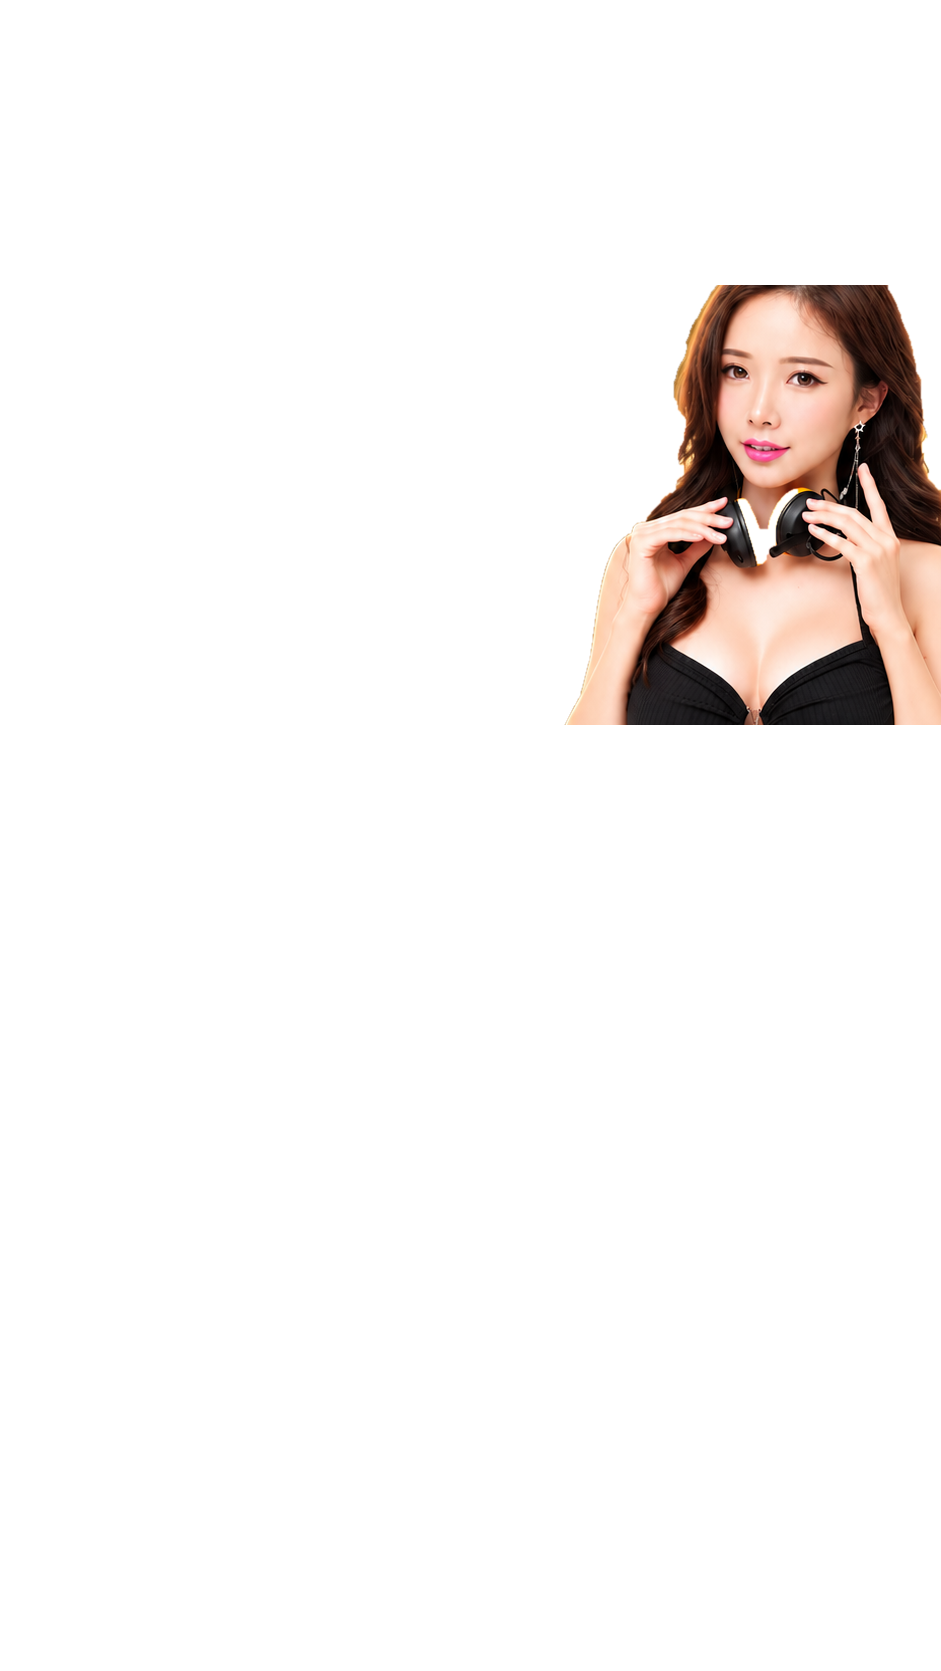
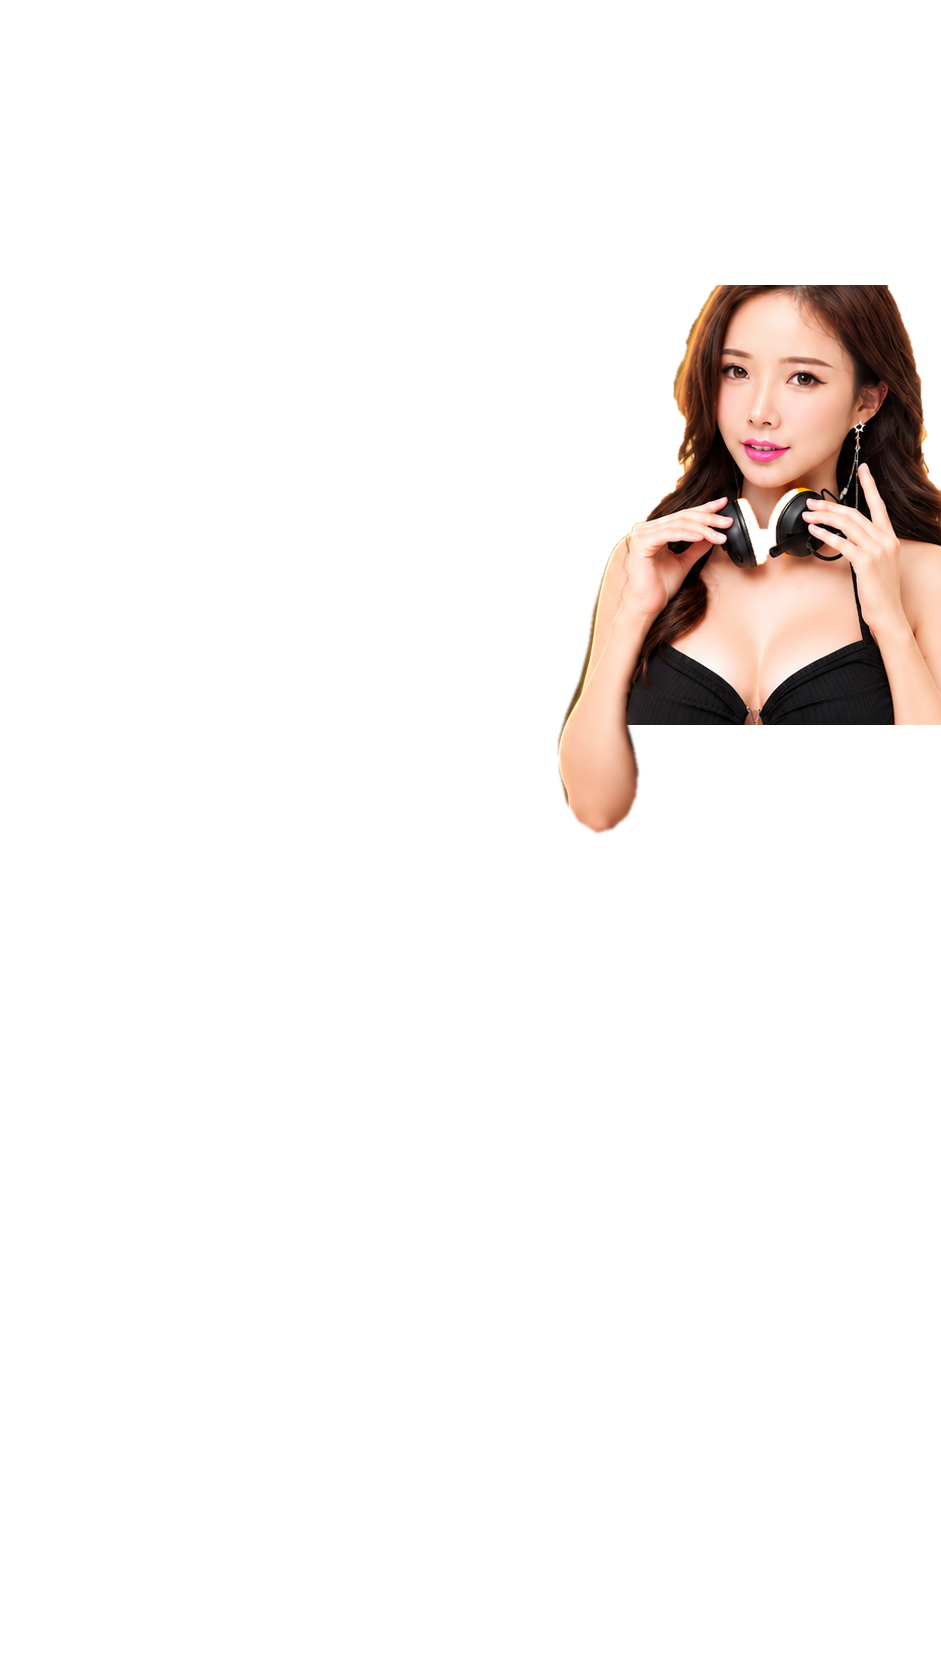
Add files via upload

Changed region(s): [[0.5855, 0.3423, 0.678, 0.4979]]

diff --git a/index.html b/index.html
@@ -11,7 +11,7 @@ html,body{margin:0;width:100%;height:100%;min-height:100%;background:#030303}
 body{display:flex;justify-content:center;align-items:stretch;overflow:hidden}
 .poster{position:relative;width:100vw;height:100vh;height:100dvh;min-height:100svh;overflow:hidden;background:#050505;isolation:isolate}
 .poster-bg{position:absolute;inset:0;width:100%;height:100%;object-fit:fill;display:block;pointer-events:none;user-select:none}
-.girl-foreground{position:absolute;inset:0;width:100%;height:100%;object-fit:fill;z-index:4;pointer-events:none;user-select:none}
+.girl-foreground{position:absolute;inset:0;width:100%;height:100%;object-fit:fill;z-index:6;pointer-events:none;user-select:none}
 .video-frame{
   position:absolute;z-index:2;left:2.5%;top:19.5%;width:70.0%;height:25.0%;
   padding:4px;border:3px solid #f7bd4d;border-radius:17px;
